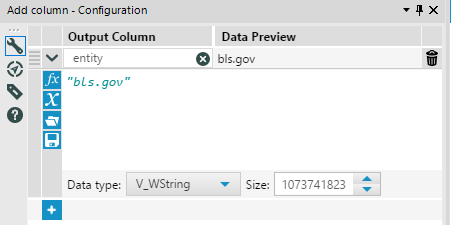
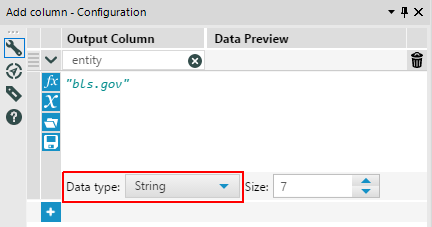
Add resource, add types note

diff --git a/integration/alteryx/README.md b/integration/alteryx/README.md
@@ -7,7 +7,7 @@
 
 ## Sample dataset
 
-For these instructions we will use [this dataset](../spss/resources/commands.txt)
+For these instructions we will use [this dataset](resources/commands.txt)
 as an example. One of the ways to load it into ATSD is described
 [here](../spss/README.md#load-data).
 
@@ -164,7 +164,9 @@ We will go through each node, in order we add them into workflow
    ![](images/sort.png)
 
 9. **Formula** tool. To store our new series to ATSD we need to add an `entity`
-   column. This can be done with the **Formula** tool. The entity is `bls.gov`
+   column. This can be done with the **Formula** tool. The entity is `bls.gov`.
+   The entity is `bls.gov`. The default data type `V_WString` is not supported
+   yet, use `String` or `WString` (for Unicode) instead.
 
    ![](images/entity.png)
 
